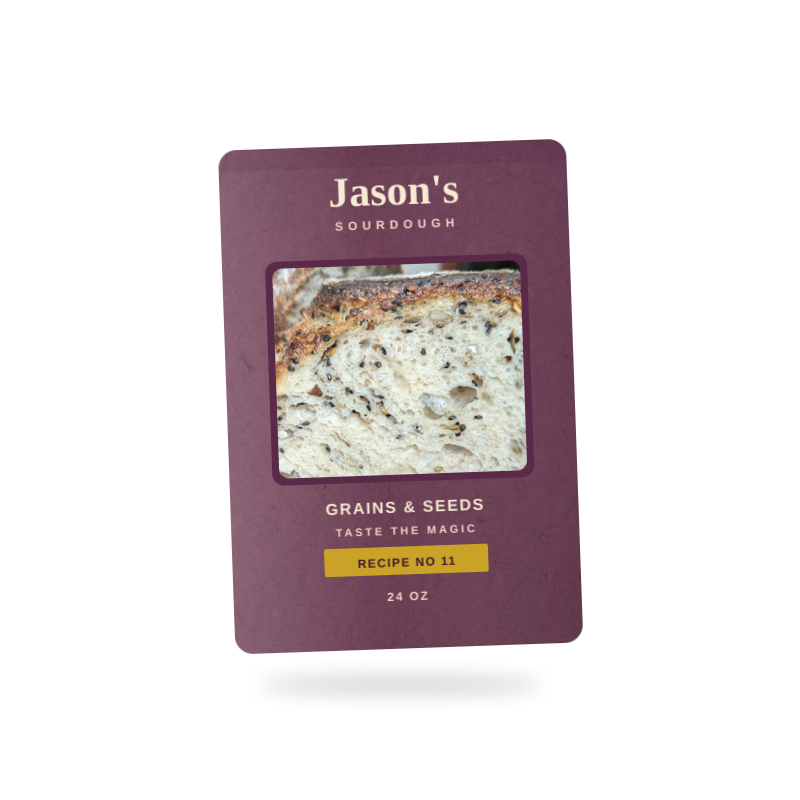
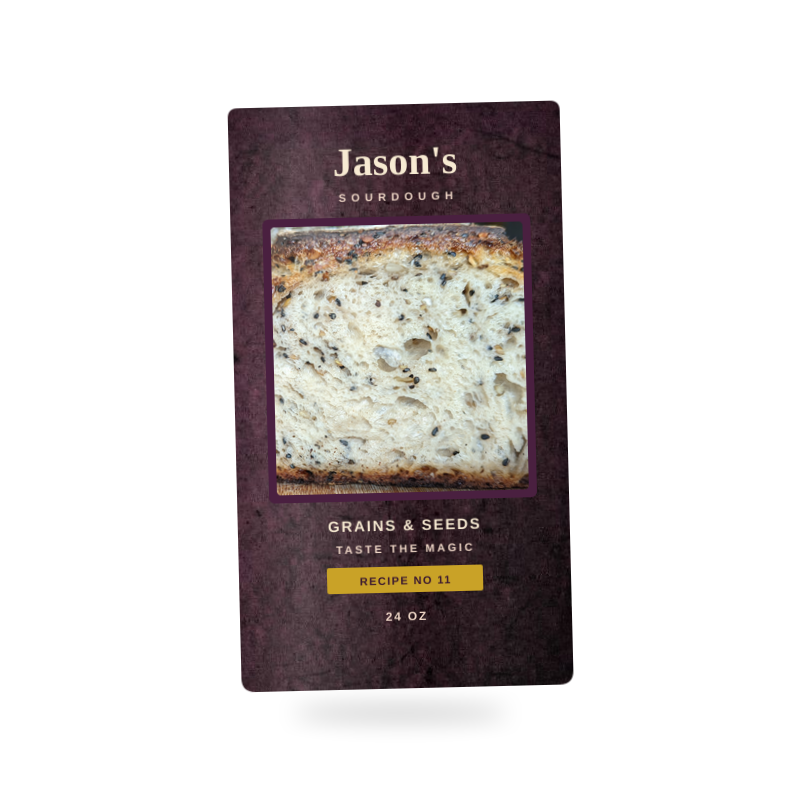
Print Jason's as a standing paper bakery bag
Recipe No 11 now reads as a mauve paper bag with a loaf window, not a flat card. Official Tesco pack host is still blocked. Kirk catalog text is unchanged.

Changed region(s): [[0.25, 0.125, 0.75, 0.9062]]

diff --git a/lib/data/products.ts b/lib/data/products.ts
@@ -303,7 +303,7 @@ export const products: Product[] = [
     price: 2.71,
     originalPrice: 4.0,
     savings: 1.29,
-    image: "/products/9.png?v=23",
+    image: "/products/9.png?v=26",
     inStock: true,
     tags: ["bakery"],
     rating: 3.9,
